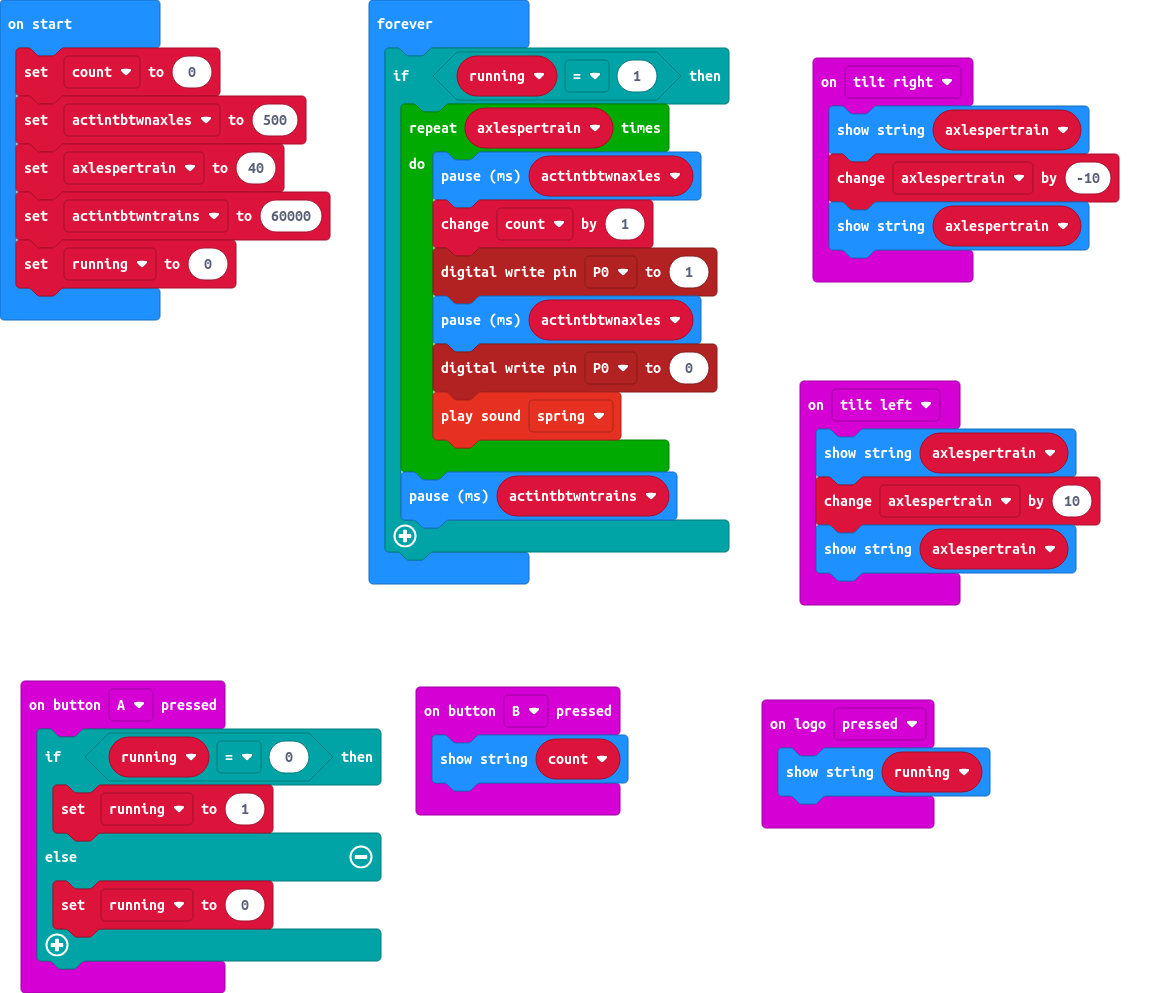
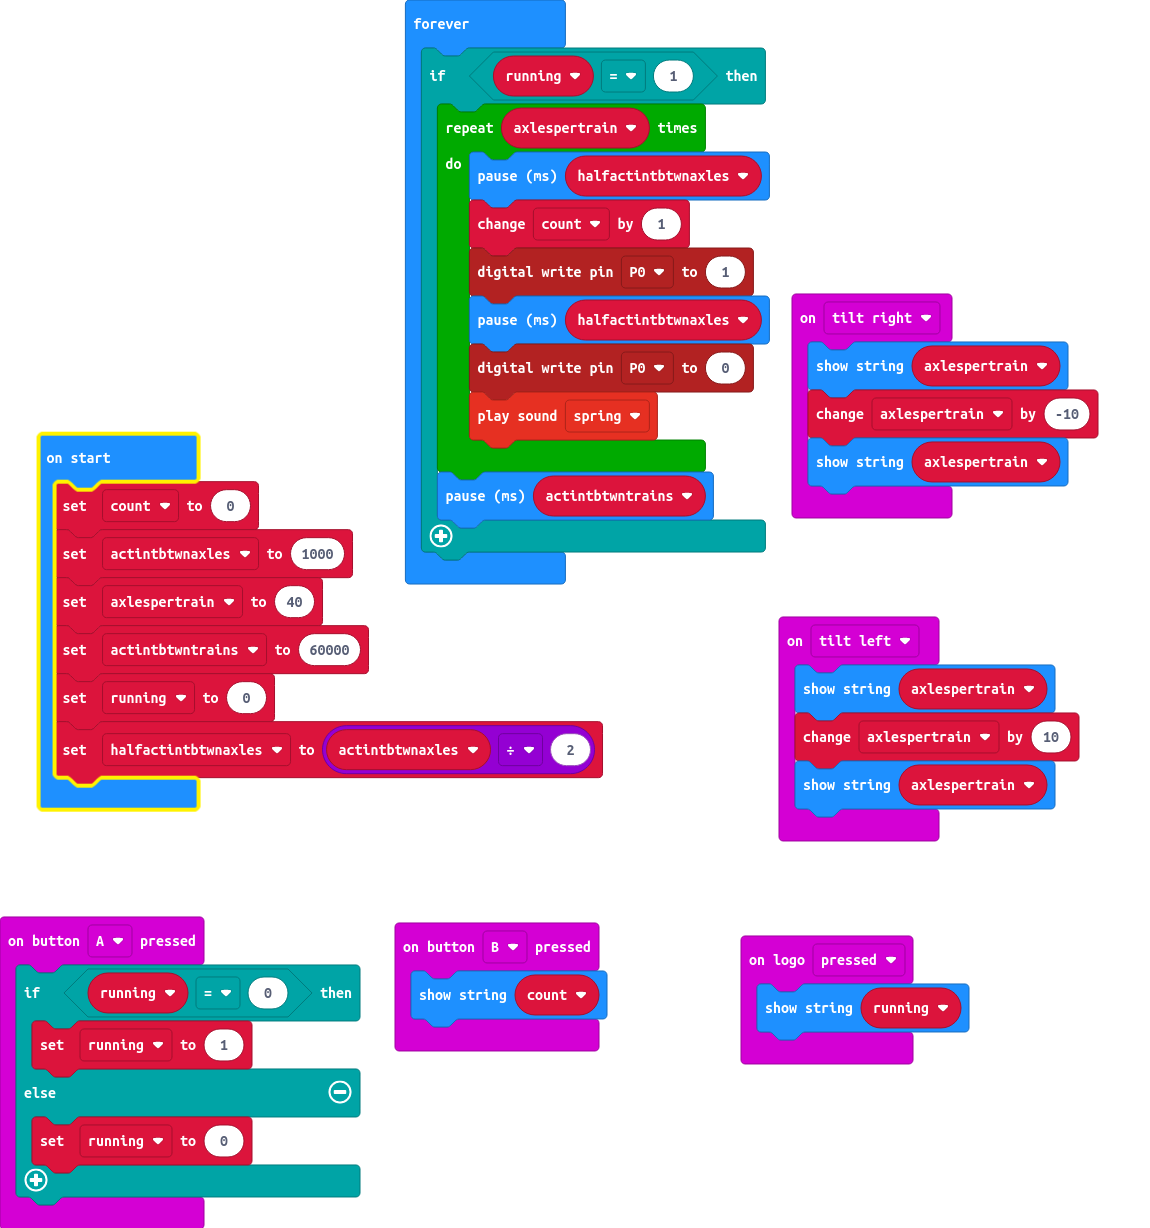
Update main.blocks, main.ts

diff --git a/main.ts b/main.ts
@@ -25,17 +25,18 @@ let running = 0
 let axlespertrain = 0
 let count = 0
 count = 0
-let actintbtwnaxles = 500
+let actintbtwnaxles = 1000
 axlespertrain = 40
 let actintbtwntrains = 60000
 running = 0
+let halfactintbtwnaxles = actintbtwnaxles / 2
 basic.forever(function () {
     if (running == 1) {
         for (let index = 0; index < axlespertrain; index++) {
-            basic.pause(actintbtwnaxles)
+            basic.pause(halfactintbtwnaxles)
             count += 1
             pins.digitalWritePin(DigitalPin.P0, 1)
-            basic.pause(actintbtwnaxles)
+            basic.pause(halfactintbtwnaxles)
             pins.digitalWritePin(DigitalPin.P0, 0)
             soundExpression.spring.play()
         }
